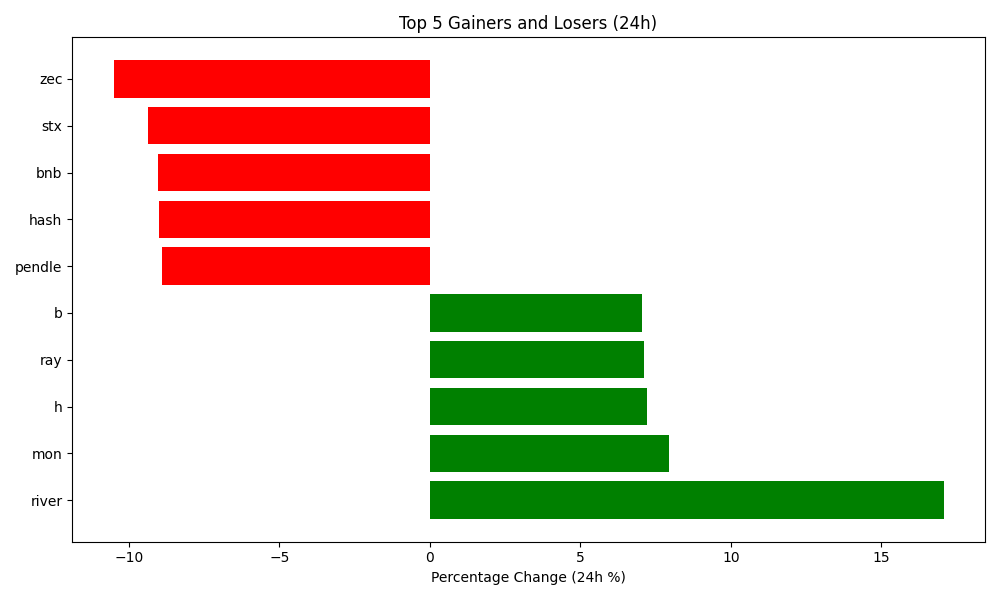
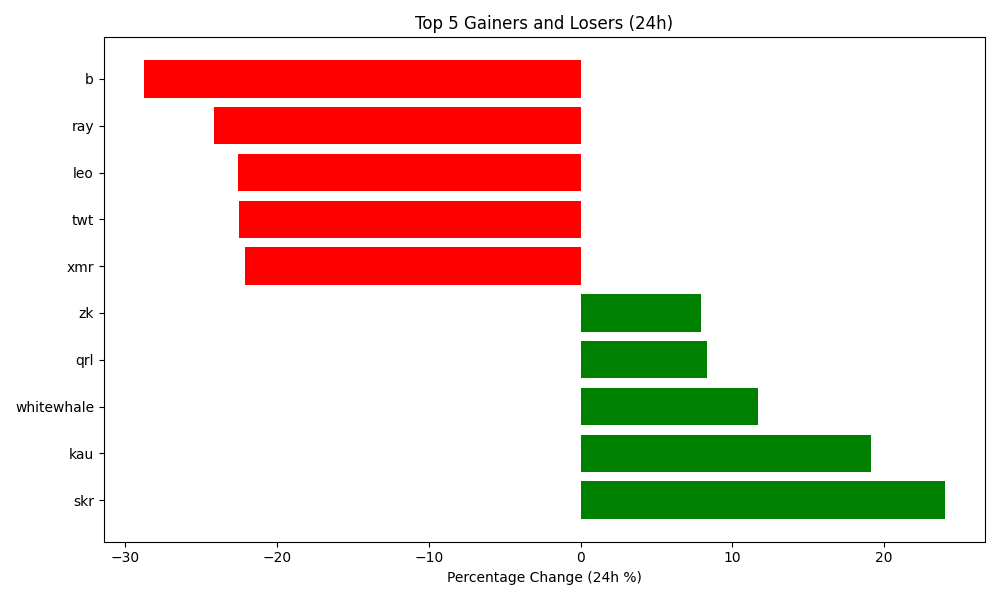
Auto-update crypto data and plot

diff --git a/README.md b/README.md
@@ -4,7 +4,7 @@ Author: Hitesh Agrawal
 This repository automatically tracks the top 5 gaining, top 5 losing, and top 5 highest volume cryptocurrencies in the last 24 hours using the CoinGecko API, Python, Matplotlib, and GitHub Actions updates the below content everyday at midnight.
 
 <!-- START_DYNAMIC_CONTENT -->
-Last updated: 2026-02-05 01:21 UTC
+Last updated: 2026-02-06 01:22 UTC
 
 ![Crypto Movers Plot](crypto_movers_plot.png)
 
@@ -12,33 +12,33 @@ Last updated: 2026-02-05 01:21 UTC
 
 | Rank | Coin | Price Change (24h %) | Volume (USD) | Current Price (USD) |
 | :--: | :--: | :------------------: | :----------: | :-----------------: |
-| 1 | river | 17.06% | $55,352,011 | $14.6500 |
-| 2 | mon | 7.94% | $139,261,851 | $0.0193 |
-| 3 | h | 7.20% | $68,096,734 | $0.1173 |
-| 4 | ray | 7.12% | $80,212,639 | $0.7386 |
-| 5 | b | 7.04% | $5,550,594 | $0.1901 |
+| 1 | skr | 24.00% | $61,942,327 | $0.0216 |
+| 2 | kau | 19.14% | $2,670,917 | $193.2800 |
+| 3 | whitewhale | 11.69% | $15,048,031 | $0.1239 |
+| 4 | qrl | 8.33% | $222,313 | $2.4500 |
+| 5 | zk | 7.90% | $105,454,358 | $0.0242 |
 
 
 **👇 Top 5 Losers (24h)**
 
 | Rank | Coin | Price Change (24h %) | Volume (USD) | Current Price (USD) |
 | :--: | :--: | :------------------: | :----------: | :-----------------: |
-| 1 | zec | -10.51% | $460,372,614 | $250.1600 |
-| 2 | stx | -9.37% | $35,537,794 | $0.2801 |
-| 3 | bnb | -9.04% | $2,416,806,150 | $692.4200 |
-| 4 | hash | -9.01% | $17,613 | $0.0195 |
-| 5 | pendle | -8.89% | $54,949,681 | $1.4200 |
+| 1 | b | -28.76% | $13,281,077 | $0.1350 |
+| 2 | ray | -24.16% | $94,598,076 | $0.5574 |
+| 3 | leo | -22.54% | $8,722,591 | $6.8800 |
+| 4 | twt | -22.49% | $50,215,099 | $0.5453 |
+| 5 | xmr | -22.10% | $171,065,536 | $295.5700 |
 
 
 **💎 Top 5 by Trade Volume (24h)**
 
 | Rank | Coin | Price Change (24h %) | Volume (USD) | Current Price (USD) |
 | :--: | :--: | :------------------: | :----------: | :-----------------: |
-| 1 | usdt | -0.08% | $126,092,983,712 | $0.9979 |
-| 2 | btc | -5.57% | $73,917,351,063 | $72,355.0000 |
-| 3 | eth | -6.12% | $44,888,906,794 | $2,136.9800 |
-| 4 | usdc | -0.00% | $14,615,545,377 | $0.9997 |
-| 5 | sol | -7.77% | $7,778,678,384 | $91.5700 |
+| 1 | usdt | 0.06% | $242,448,688,196 | $0.9986 |
+| 2 | btc | -11.36% | $160,116,469,368 | $64,132.0000 |
+| 3 | eth | -11.48% | $71,470,775,719 | $1,891.6300 |
+| 4 | usdc | 0.00% | $34,361,490,181 | $0.9998 |
+| 5 | xrp | -16.55% | $13,672,320,870 | $1.2400 |
 
 
 <!-- END_DYNAMIC_CONTENT -->
